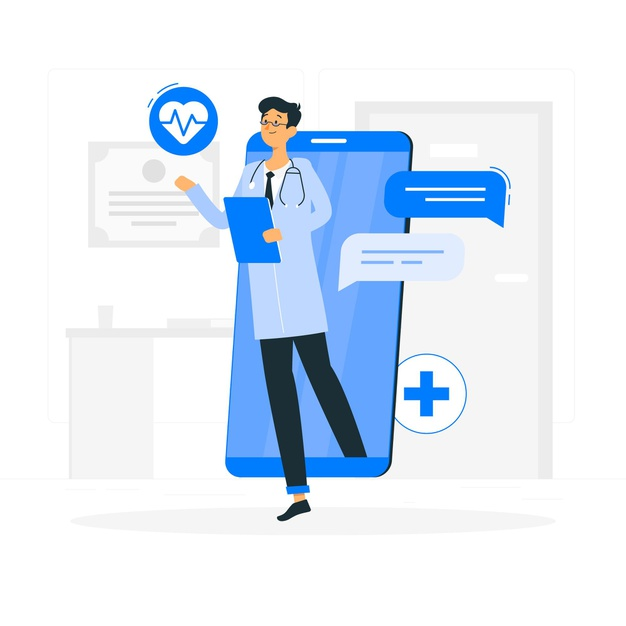
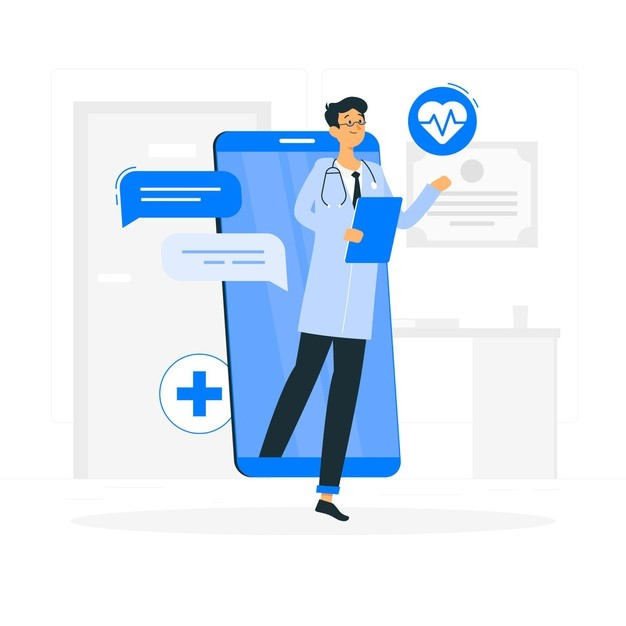
register page completed

Changed region(s): [[0.1821, 0.1214, 0.8195, 0.8498]]

diff --git a/client/src/components/register/content.jsx b/client/src/components/register/content.jsx
@@ -1,0 +1,75 @@
+import React from "react";
+import Fade from "react-reveal/Fade";
+import { Container, Row, Col, Card, Button } from "react-bootstrap";
+import TextField from "@material-ui/core/TextField";
+import DoctorImg from "../../assets/online_doctor.jpg";
+
+const Content = () => {
+  return (
+    <div className="bg-div register" id="home">
+      <div className="head mx-5">
+        <div
+          className="head-div mx-auto main-div"
+          style={{ padding: "70px 0" }}
+        >
+          <Fade>
+            <Container>
+              <Row>
+                <Col md={6} lg={5} className="center flex-column">
+                  <p className="head-div-fourth-text">Welcome to HealthDoc</p>
+                  <img
+                    src={DoctorImg}
+                    alt="doctor-img"
+                    height="auto"
+                    width="400px"
+                  />
+                </Col>
+                <Col
+                  md={6}
+                  lg={7}
+                  className="d-flex justify-center align-center"
+                >
+                  <section className="d-flex">
+                    <div className="text-center" style={{ width: "50%" }}>
+                      {" "}
+                      <h2 className="mb-3">Register</h2>
+                      <Card style={{ width: "100%" }}>
+                        <Card.Body>
+                          <form className="d-flex flex-column">
+                            <TextField label="First Name" />
+                            <TextField label="Last Name" />
+                            <TextField label="Email" />
+                            <TextField label="Password" />
+                            <Button variant="primary" className="mt-4">
+                              Submit
+                            </Button>
+                          </form>
+                        </Card.Body>
+                      </Card>
+                    </div>
+                    <div className="text-center ps-3" style={{ width: "50%" }}>
+                      <h2 className="mb-3">Log In</h2>
+                      <Card style={{ width: "100%" }}>
+                        <Card.Body>
+                          <form className="d-flex flex-column">
+                            <TextField label="Email" />
+                            <TextField label="Password" />
+                            <Button variant="primary" className="mt-4">
+                              Submit
+                            </Button>
+                          </form>
+                        </Card.Body>
+                      </Card>
+                    </div>
+                  </section>
+                </Col>
+              </Row>
+            </Container>
+          </Fade>
+        </div>
+      </div>
+    </div>
+  );
+};
+
+export default Content;

diff --git a/client/src/components/common/navbar.jsx b/client/src/components/common/navbar.jsx
@@ -8,7 +8,7 @@ const Header = () => {
   let location = useLocation();
   const changeBackground = () => {
     let header = document.querySelector(".header-nav");
-    if (window.scrollY < 200 && location.pathname !== "/predict") {
+    if (window.scrollY < 200) {
       header.classList.remove("sticky");
     } else {
       header.classList.add("sticky");
@@ -39,6 +39,9 @@ const Header = () => {
       <Navbar.Toggle aria-controls="responsive-navbar-nav" />
       <Navbar.Collapse id="responsive-navbar-nav">
         <Nav className="ms-auto me-5">
+          <NavLink className="px-3 nav-link" to="/">
+            <Fade>Home</Fade>
+          </NavLink>
           {location.pathname === "/" && (
             <>
               <Nav.Link className="px-3" href="#about">
@@ -49,8 +52,8 @@ const Header = () => {
               </Nav.Link>
             </>
           )}
-          <NavLink className="px-3 nav-link" to="/">
-            <Fade>Predict Now</Fade>
+          <NavLink className="px-3 nav-link" to="/auth">
+            <Fade>Register / Login</Fade>
           </NavLink>
         </Nav>
       </Navbar.Collapse>

diff --git a/client/src/App.js b/client/src/App.js
@@ -8,6 +8,7 @@ import setAuthToken from "./utils/setAuthToken";
 import Header from "./components/common/navbar";
 import Footer from "./components/common/footer";
 import Home from "./pages/Home";
+import Register from "./pages/Register";
 import Heart from "./pages/Heart";
 import Predict from "./pages/Predict";
 import Liver from "./pages/Liver";
@@ -33,12 +34,13 @@ const App = () => {
       <Header />
       <Switch>
         <Route exact path="/" component={Home} />
+        <Route exact path="/auth" component={Register} />
         <Route exact path="/predict" component={Predict} />
         <Route exact path="/predict/heart" component={Heart} />
         <Route exact path="/predict/liver" component={Liver} />
         <Route exact path="/predict/kidney" component={Kidney} />
       </Switch>
-      <Footer />
+      {/* <Footer /> */}
       <ToastContainer
         position="top-right"
         autoClose={4000}

diff --git a/client/src/styles/layout/_navbar.scss b/client/src/styles/layout/_navbar.scss
@@ -7,6 +7,10 @@
         color: black;
         font-size: xx-large;
         transition: all 0.5s ease;
+        &:hover{
+            color: #006aff !important;
+            transition: color 0.3s ease;
+        }
         p {
             font-weight: 800;
             font-family: 'Playfair Display', serif;
@@ -62,10 +66,6 @@
     .nav-link{
         &:hover{
             background-color: rgba(0,0,0,0.1);
-            transition: all 0.5s ease;
-        }
-        &:nth-last-child(1):hover{
-            background-color: white !important;
             transition: all 0.5s ease;
         }
     }

diff --git a/client/src/styles/layout/_content.scss b/client/src/styles/layout/_content.scss
@@ -1,0 +1,14 @@
+.register {
+    h2 {
+        font-family: 'Playfair Display', serif;
+    }
+    .head-div-fourth-text {
+        color: #006aff;
+    }
+    .MuiFormControl-root {
+        margin-bottom: 10px;
+    }
+    form {
+        padding: 20px 40px;
+    }
+}

diff --git a/client/src/pages/Register.jsx b/client/src/pages/Register.jsx
@@ -1,0 +1,8 @@
+import React from "react";
+import Content from "../components/register/content";
+
+const Register = () => {
+  return <Content />;
+};
+
+export default Register;

diff --git a/client/src/styles/styles.scss b/client/src/styles/styles.scss
@@ -100,3 +100,4 @@ li {
 @import "./layout/cover";
 @import "./layout/about";
 @import "./layout/footer";
+@import "./layout/content";
